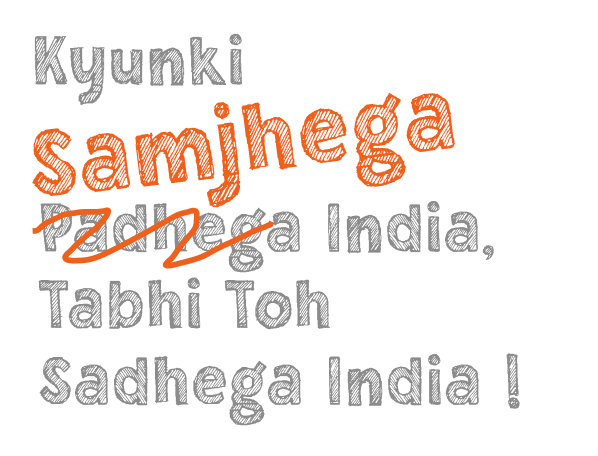
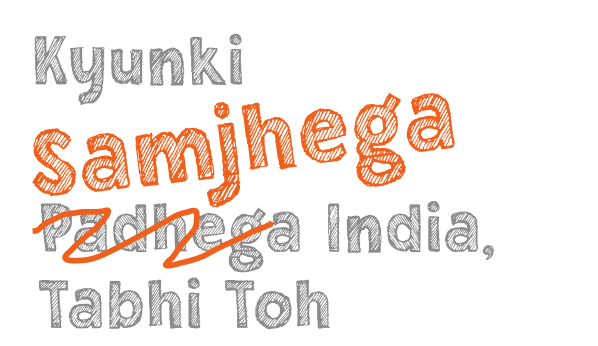
changes in the sections

diff --git a/src/components/SectionTwo.jsx b/src/components/SectionTwo.jsx
@@ -2,7 +2,7 @@ import React, { useEffect, useState } from 'react';
 import prj from "../Assets/Project.png";
 import fif from "../Assets/50@50.png";
 import p from "../Assets/padhegass.png";
-
+import badhega from "../Assets/Badhega.png";
 const SectionTwo = () => {
     const [screen, setScren] = useState();
 
@@ -75,6 +75,9 @@ const SectionTwo = () => {
                         <div>
                             <img src={p} style={{ height: "200px" }} alt="" />
                         </div>
+                        <div className='ms-4'>
+                            <img src={badhega} style={{ height: "50px" }} alt="" />
+                        </div>
                     </div>
                     <div className="col-lg-1"></div>
                     <div className="col-lg-5">
@@ -91,16 +94,38 @@ const SectionTwo = () => {
                         </ul>
                         <div className="tab-content" id="myTabContent" style={tabContentStyle}>
                             <div className="tab-pane fade show active" id="home" role="tabpanel" aria-labelledby="home-tab">
-                                <div className='p-5'>
+                                <div className='p-2'>
                                     <div style={pStyle}>
-                                        50@50 stands as a transformation initiative, poised to elevate one million classrooms across India by integrating cutting-edge technology. This recurrent campaign operates under the "Tech-Led Education" framework, a vital component of AI For Social Good and facilitated by Efforts For Good. Aligned with the National Education Policy, this initiative advocates the adoption of tech-led and AI integrations to address comprehension challenges. By redefining smart schooling beyond infrastructure(hardware and content), it prioritizes proven tech-led interventions, emphasizing measurable learning outcomes and surpassing global best practices. Partnering with Build A Class foundation, known for their decade-long expertise in technological interventions, 50@50 implements advanced Atomo-powered solutions to transform classrooms and elevate learning experiences. 50@50 envisions a future where personalized learning, AI-driven analytics, and holistic education drive India's position as a global leader in inclusive education. Discover details about 50@50 here.
+                                        50@50 stands as a transformation initiative, poised to elevate one million classrooms across India by integrating cutting-edge technology. This recurrent campaign operates under the "Tech-Led Education" framework, a vital component of AI For Social Good and facilitated by Efforts For Good.
+                                        <br />
+                                        <br />
+                                        Aligned with the National Education Policy, this initiative advocates the adoption of tech-led and AI integrations to address comprehension challenges.
+                                        <br />
+                                        <br />
+                                        By redefining smart schooling beyond infrastructure(hardware and content), it prioritizes proven tech-led interventions, emphasizing measurable learning outcomes and surpassing global best practices. Partnering with Build A Class foundation, known for their decade-long expertise in technological interventions, 50@50 implements advanced Atomo-powered solutions to transform classrooms and elevate learning experiences.
+                                        <br />
+                                        <br />
+                                        50@50 envisions a future where personalized learning, AI-driven analytics, and holistic education drive India's position as a global leader in inclusive education.
+                                        <br />
+                                        <br />
+                                        Discover details about 50@50 here.
                                     </div>
                                 </div>
                             </div>
                             <div className="tab-pane fade" id="profile" role="tabpanel" aria-labelledby="profile-tab">
-                                <div className='p-5'>
+                                <div className='p-2'>
                                     <div style={pStyle}>
-                                        AI For Social Good represents an open collaborative initiative led by prominent tech companies in India, aiming to harness the unparalleled capabilities of AI for enhanced decision-making, accelerated problem-solving, and societal advancement. AI For Social Good thrives at the crossroads of precise insights, social investments, bleeding-edge innovations, and impactful interventions. This tech-driven framework is poised to optimize SDG indicators, revolutionize decision-making via intricate data analysis and visualization, elevating interventions while meticulously gauging sustainable progress towards pivotal Sustainable Development Goals (SDGs). We're making sure the people who are driven to change the world have open access to the latest tools and technologies. Together with our collaborators, AI For Social Good is constructing a comprehensive tech and insights repository, empowering implementing agencies and NGOs to seamlessly integrate AI tools. With a primary focus on Education, Climate, Health, and Financial Inclusion, AI For Social Good continues to advocate for social projects rooted in robust tech and AI foundations. Discover more about joining our collective and the ongoing endeavors at AI For Social Good here.
+                                        AI For Social Good represents an open collaborative initiative led by prominent tech companies in India, aiming to harness the unparalleled capabilities of AI for enhanced decision-making, accelerated problem-solving, and societal advancement.
+                                        <br />
+                                        <br />
+                                        AI For Social Good thrives at the crossroads of precise insights, social investments, bleeding-edge innovations, and impactful interventions. This tech-driven framework is poised to optimize SDG indicators, revolutionize decision-making via intricate data analysis and visualization, elevating interventions while meticulously gauging sustainable progress towards pivotal Sustainable Development Goals (SDGs).
+                                        <br />
+                                        <br />
+                                        We're making sure the people who are driven to change the world have open access to the latest tools and technologies. Together with our collaborators, AI For Social Good is constructing a comprehensive tech and insights repository, empowering implementing agencies and NGOs to seamlessly integrate AI tools.
+                                        <br />
+                                        <br />
+                                        With a primary focus on Education, Climate, Health, and Financial Inclusion, AI For Social Good continues to advocate for social projects rooted in robust tech and AI foundations.
+                                        Discover more about joining our collective and the ongoing endeavors at AI For Social Good here.
                                     </div>
                                 </div>
                             </div>

diff --git a/src/components/SliderPortion.jsx b/src/components/SliderPortion.jsx
@@ -1,7 +1,7 @@
 import React, { useEffect, useState } from 'react';
-// import Slider from 'react-slick';
-// import 'slick-carousel/slick/slick.css';
-// import 'slick-carousel/slick/slick-theme.css';
+import Slider from 'react-slick';
+import 'slick-carousel/slick/slick.css';
+import 'slick-carousel/slick/slick-theme.css';
 import IIM from "../Assets/800px-IIMA_LOGO_BLACK.png";
 import amins from "../Assets/amins logo.png";
 import bsb from "../Assets/BSB_logo_burgundy.png";
@@ -42,7 +42,7 @@ const SliderPortion = () => {
 
     return (
         <div className='mt-5 mb-5'>
-            {/* <Slider {...settings}>
+            <Slider {...settings}>
                 <div className='my-auto'>
                     <img style={{ height: "70px" }} src={IIM} alt="" />
                 </div>
@@ -70,86 +70,7 @@ const SliderPortion = () => {
                 <div className='my-auto'>
                     <img style={{ height: "70px" }} src={world} alt="" />
                 </div>
-            </Slider> */}
-            {
-                window.innerWidth < 546 ? <>
-                    <div id="carouselExampleControlsNoTouching" class="carousel slide" data-bs-touch="false" data-bs-interval="false">
-                        <div class="carousel-inner">
-                            <div class="carousel-item active">
-                                <div class="d-flex justify-content-around">
-                                    <img src={IIM} style={{ height: "50px" }} class="d-block" alt="Image 1" />
-                                    <img src={amins} style={{ height: "50px" }} class="d-block" alt="Image 1" />
-                                    <img src={jsw} style={{ height: "50px" }} class="d-block" alt="Image 1" />
-
-                                </div>
-                            </div>
-                            <div class="carousel-item">
-                                <div class="d-flex justify-content-around">
-                                    <img src={sarva} style={{ height: "50px" }} class="d-block " alt="Image 2" />
-                                    <img src={surface} style={{ height: "50px" }} class="d-block " alt="Image 3" />
-                                    <img src={tata} style={{ height: "50px" }} class="d-block" alt="Image 1" />
-
-                                </div>
-                            </div>
-                            <div class="carousel-item">
-                                <div class="d-flex justify-content-around">
-                                    <img src={tcp} style={{ height: "50px" }} class="d-block" alt="Image 1" />
-                                    <img src={world} style={{ height: "50px" }} class="d-block" alt="Image 1" />
-                                    <img src={IIM} style={{ height: "50px" }} class="d-block " alt="Image 2" />
-                                </div>
-                            </div>
-                        </div>
-                        <button class="carousel-control-prev" type="button" data-bs-target="#carouselExampleControlsNoTouching" data-bs-slide="prev">
-                            <span class="carousel-control-prev-icon" aria-hidden="true"></span>
-                            <span class="visually-hidden">Previous</span>
-                        </button>
-                        <button class="carousel-control-next" type="button" data-bs-target="#carouselExampleControlsNoTouching" data-bs-slide="next">
-                            <span class="carousel-control-next-icon" aria-hidden="true"></span>
-                            <span class="visually-hidden">Next</span>
-                        </button>
-                    </div>
-                </> : <>
-                    <div id="carouselExampleControlsNoTouching" class="carousel slide" data-bs-touch="false" data-bs-interval="false">
-                        <div class="carousel-inner">
-                            <div class="carousel-item active">
-                                <div class="d-flex justify-content-around">
-                                    <img src={IIM} style={{ height: "100px" }} class="d-block" alt="Image 1" />
-                                    <img src={amins} style={{ height: "100px" }} class="d-block" alt="Image 1" />
-                                    <img src={jsw} style={{ height: "100px" }} class="d-block" alt="Image 1" />
-                                    <img src={sarva} style={{ height: "100px" }} class="d-block " alt="Image 2" />
-                                    <img src={surface} style={{ height: "100px" }} class="d-block " alt="Image 3" />
-                                </div>
-                            </div>
-                            <div class="carousel-item">
-                                <div class="d-flex justify-content-around">
-                                    <img src={tata} style={{ height: "100px" }} class="d-block" alt="Image 1" />
-                                    <img src={tcp} style={{ height: "100px" }} class="d-block" alt="Image 1" />
-                                    <img src={world} style={{ height: "100px" }} class="d-block" alt="Image 1" />
-                                    <img src={IIM} style={{ height: "100px" }} class="d-block " alt="Image 2" />
-                                    <img src={amins} style={{ height: "100px" }} class="d-block " alt="Image 3" />
-                                </div>
-                            </div>
-                            {/* <div class="carousel-item">
-                        <div class="d-flex justify-content-around">
-                            <img src={IIM} style={{ height: "100px" }} class="d-block" alt="Image 1" />
-                            <img src={amins} style={{ height: "100px" }} class="d-block" alt="Image 1" />
-                            <img src={bsb} style={{ height: "100px" }} class="d-block" alt="Image 1" />
-                            <img src={amins} style={{ height: "100px" }} class="d-block " alt="Image 2" />
-                            <img src={bsb} style={{ height: "100px" }} class="d-block " alt="Image 3" />
-                        </div>
-                    </div> */}
-                        </div>
-                        <button class="carousel-control-prev" type="button" data-bs-target="#carouselExampleControlsNoTouching" data-bs-slide="prev">
-                            <span class="carousel-control-prev-icon" aria-hidden="true"></span>
-                            <span class="visually-hidden">Previous</span>
-                        </button>
-                        <button class="carousel-control-next" type="button" data-bs-target="#carouselExampleControlsNoTouching" data-bs-slide="next">
-                            <span class="carousel-control-next-icon" aria-hidden="true"></span>
-                            <span class="visually-hidden">Next</span>
-                        </button>
-                    </div>
-                </>
-            }
+            </Slider>
         </div>
     )
 }

diff --git a/src/components/SectionThree.jsx b/src/components/SectionThree.jsx
@@ -12,6 +12,10 @@ const SectionThree = () => {
     const [Message, setMessage] = useState();
     const [err, setErr] = useState();
 
+    // Email and Phone number regex patterns
+    const emailRegex = /^[^\s@]+@[^\s@]+\.[^\s@]+$/;
+    const phoneRegex = /^[0-9]{10}$/;
+
     const handleSubmit = (e) => {
         e.preventDefault();
         let validate = true;
@@ -21,6 +25,18 @@ const SectionThree = () => {
             officeEmail,
             phoneNummber: phoneNumber,
             message: Message
+        }
+
+        // Email validation
+        if (!emailRegex.test(data.officeEmail)) {
+            setErr("Invalid Email Format");
+            validate = false;
+        }
+
+        // Phone number validation
+        if (!phoneRegex.test(data.phoneNummber)) {
+            setErr("Invalid Phone Number Format");
+            validate = false;
         }
 
         if (data.companyName === "" || data.companyName === undefined) {
@@ -59,8 +75,6 @@ const SectionThree = () => {
                 }
             })
         }
-
-
     }
 
     return (
@@ -104,7 +118,7 @@ const SectionThree = () => {
                                     <label htmlFor="phoneNumber">
                                         Phone Number
                                     </label>
-                                    <input type="phone" required value={phoneNumber} onChange={(e) => { setPhoneNumber(e.target.value); setErr("") }} className="form-control" name="phoneNumber" id="phoneNumber" style={{ backgroundColor: "#F8F5F5" }} />
+                                    <input type="number" required value={phoneNumber} onChange={(e) => { setPhoneNumber(e.target.value); setErr("") }} className="form-control" name="phoneNumber" id="phoneNumber" style={{ backgroundColor: "#F8F5F5" }} />
                                 </div>
 
                                 <div className="col-lg-12 mt-4">

diff --git a/src/components/Header.jsx b/src/components/Header.jsx
@@ -15,7 +15,7 @@ const Header = () => {
         <div>
             <nav class="navbar navbar-light" style={{ backgroundColor: "#F5FAFF" }}>
                 <div class="container">
-                    <a class="navbar-brand" ><img src={logo} alt="" style={{ borderRight: "2px solid lightblue" }} /><img src={fif} alt="" className='ms-3' /></a>
+                    <a class="navbar-brand" target='_blank' href="https://www.myefg.org/home"><img src={logo} alt="" style={{ borderRight: "2px solid lightblue" }} /><img src={fif} alt="" className='ms-3' /></a>
                     <form class="d-flex">
                         <button class="btn ps-3 pe-3 pt-2 pb-2 text-white" style={{ backgroundColor: "#EF601D", borderRadius: "15px", fontWeight: "400", fontSize: "16px" }} type="submit" onClick={handleOnfocus}>Pledge Now</button>
                     </form>
